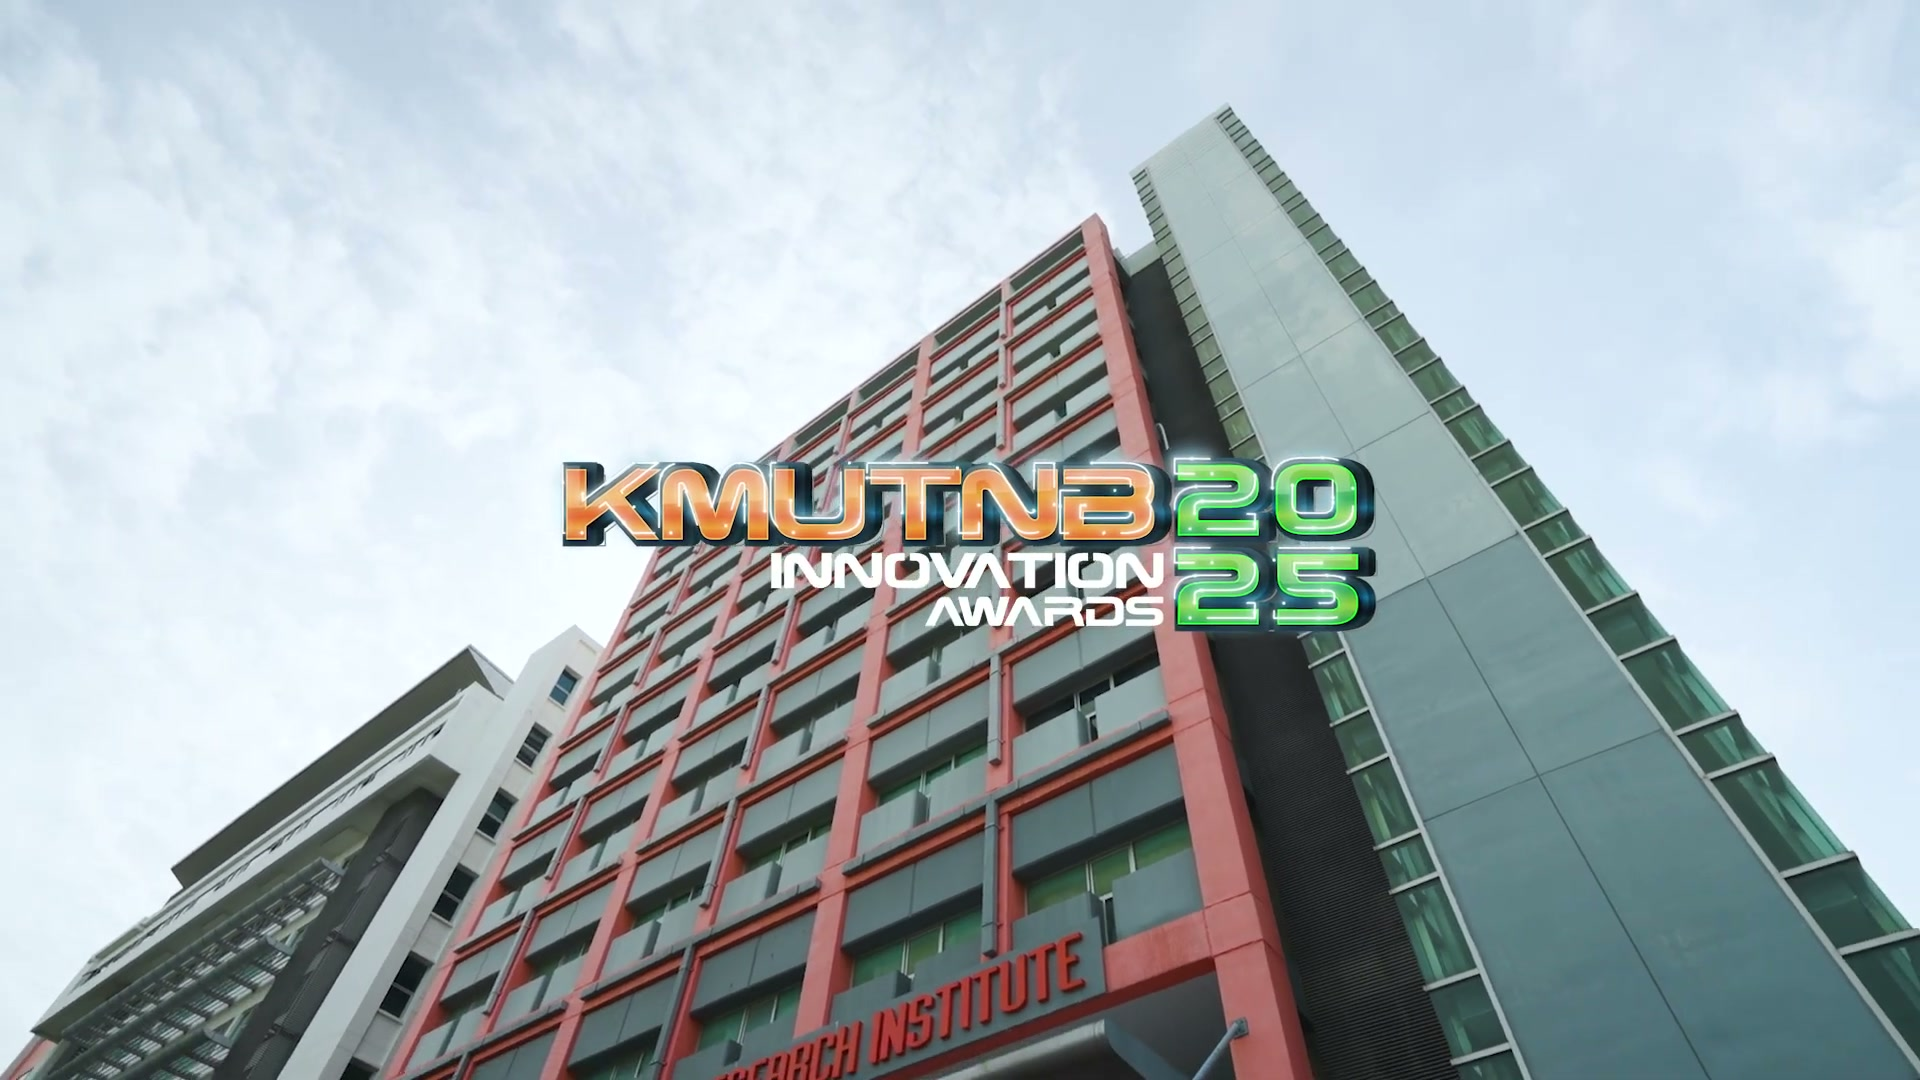
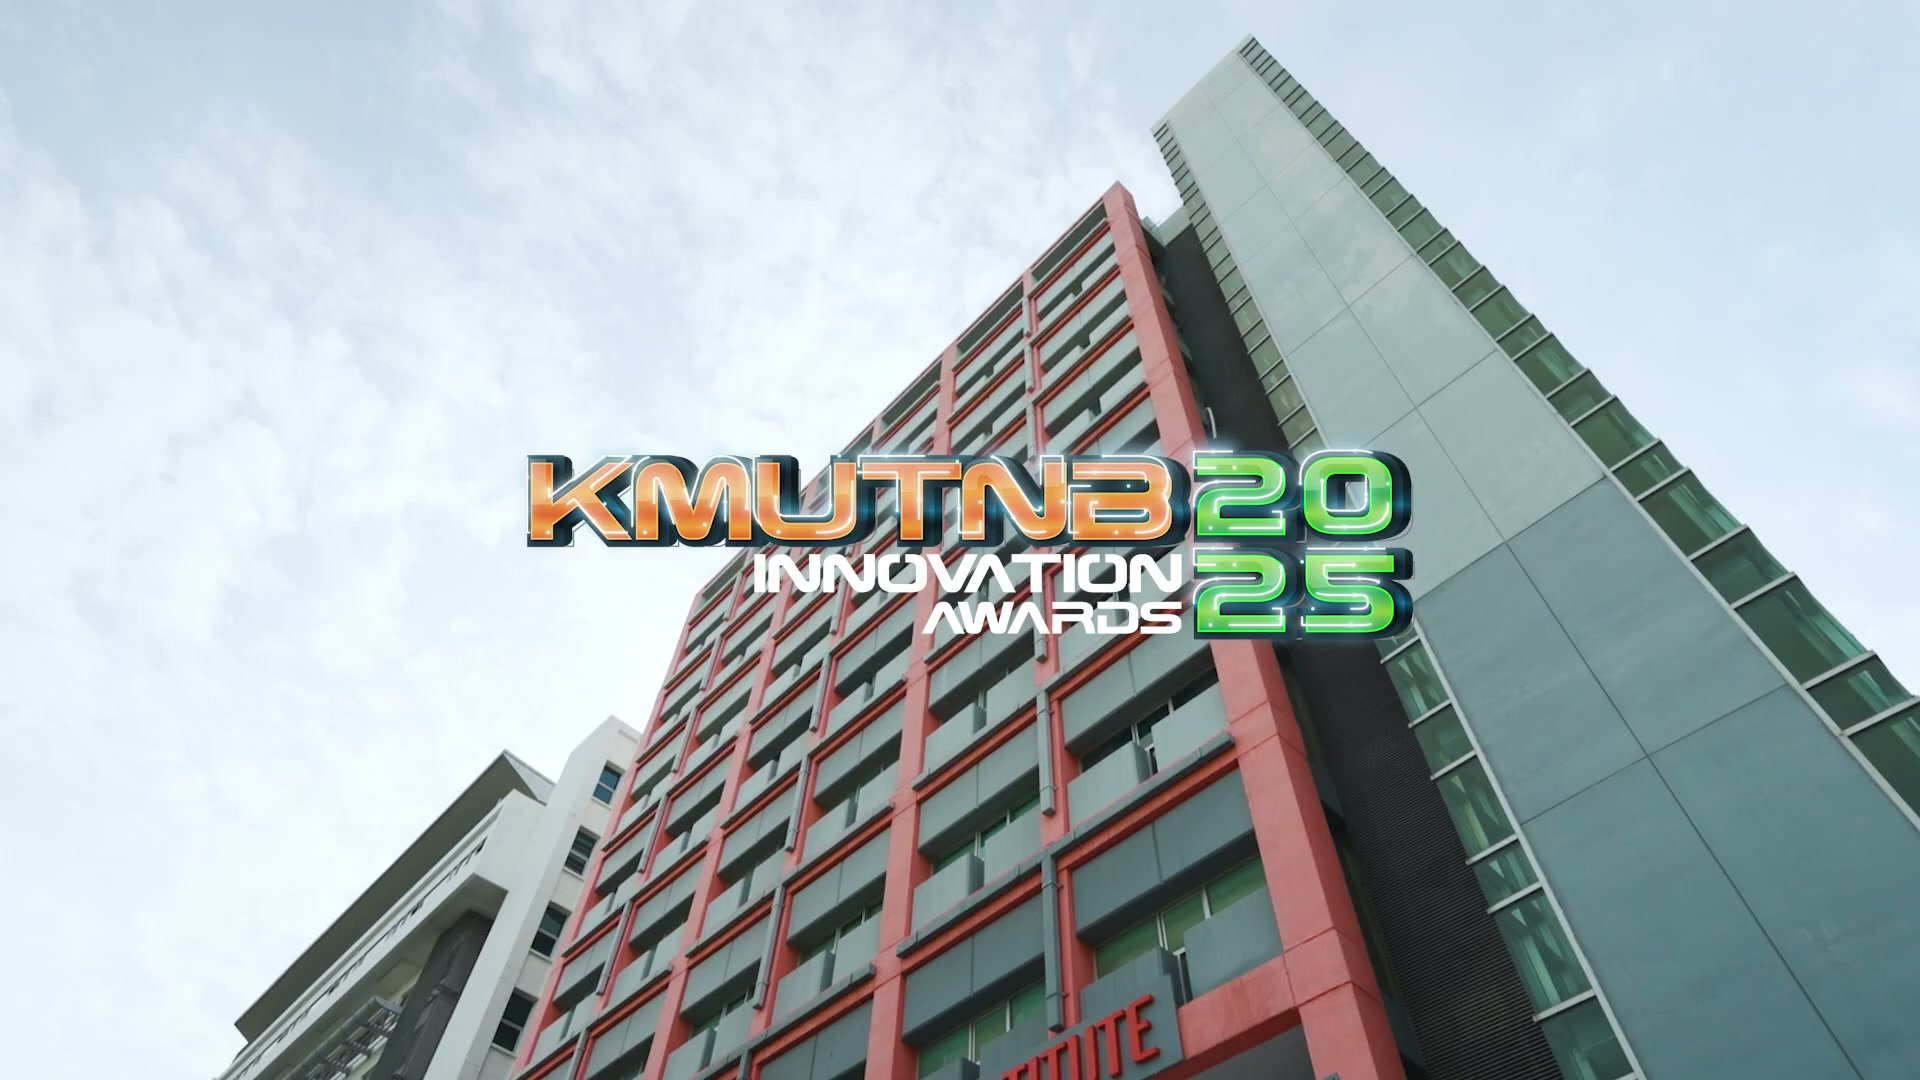
feat: update hero poster image and integrate into App component

diff --git a/client/src/App.jsx b/client/src/App.jsx
@@ -986,7 +986,7 @@ export default function App() {
               ref={heroVideoRef}
               className="hero-background-video hero-youtube-background"
               poster={getAssetUrl('/hero-poster.jpg')}
-              src={getAssetUrl('/hero-highlight-2025-opt.mp4')}
+              src={getAssetUrl('/hero-highlight-2025.mp4')}
               autoPlay
               muted={heroVideoMuted}
               loop
